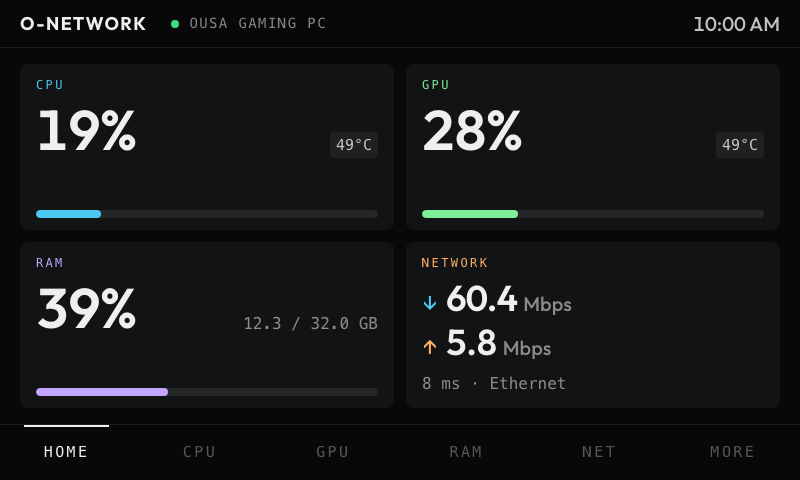
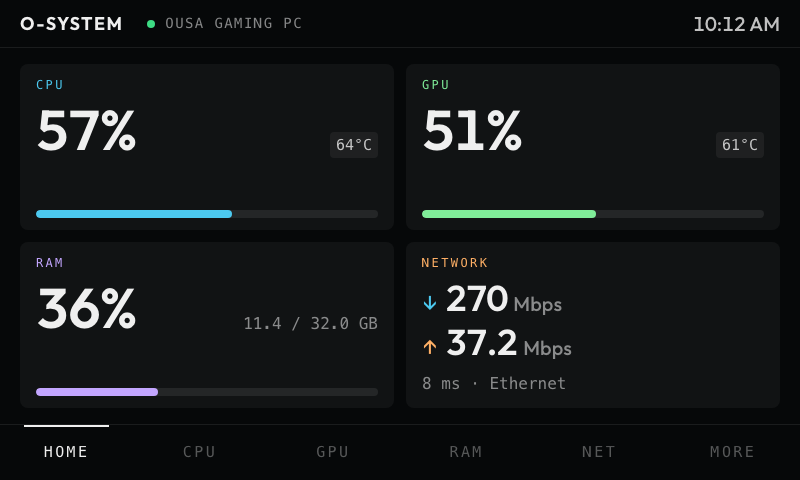
O-Network Monitor becomes O-System Monitor
The app watches CPU, GPU, memory, storage and processes now, not just the
link, so it takes a name that says so. Same manifest id, so an installed
copy upgrades in place and keeps its data.

- manifest name O-System Monitor, and a description that matches the new
  dashboard
- page and settings titles, the settings page fallback heading, and the
  O-SYSTEM wordmark in the top bar
- README (app table, net.proxy note, section heading, dev server table),
  the changelog title and a note in 0.2.0, and a fresh store screenshot
- the folder and package name stay network-monitor: they are internal, and
  renaming them would only move dev paths and catalog file names

Also fixes settings loading: the stored copy arrives a moment after the
page opens, and a change made before then was overwritten by the late
load. Early changes are now held and laid over the stored copy, then saved.

diff --git a/apps/network-monitor/src/store/settings.ts b/apps/network-monitor/src/store/settings.ts
@@ -58,16 +58,32 @@ function parse(raw: string | null | undefined): Settings {
   };
 }
 
+// the stored copy arrives a moment after the page, once the daemon answers; a change made before then is kept here
+// and laid over it, or the late load would quietly undo it
+let loaded = false;
+let early: Partial<Settings> = {};
+
+function save(client: BridgethingClient) {
+  client.store.put({ key: KEY, value: JSON.stringify(settingsStore.get()) }).catch(() => {});
+}
+
 export async function loadSettings(client: BridgethingClient) {
   try {
     const r = await client.store.get({ key: KEY });
-    if (r.ok) settingsStore.set(parse(r.response.value));
+    if (r.ok) settingsStore.set({ ...parse(r.response.value), ...early });
   } catch {
     // no daemon yet: the defaults stand until it answers
   }
+  loaded = true;
+  if (Object.keys(early).length > 0) save(client);
+  early = {};
 }
 
 export function updateSettings(client: BridgethingClient, patch: Partial<Settings>) {
   settingsStore.set(prev => ({ ...prev, ...patch }));
-  client.store.put({ key: KEY, value: JSON.stringify(settingsStore.get()) }).catch(() => {});
+  if (!loaded) {
+    early = { ...early, ...patch };
+    return;
+  }
+  save(client);
 }

diff --git a/apps/network-monitor/src/components/chrome.tsx b/apps/network-monitor/src/components/chrome.tsx
@@ -18,7 +18,7 @@ export const TopBar = memo(function TopBar({
 }) {
   return (
     <div className="flex h-12 shrink-0 items-center gap-4 border-b border-white/8 px-5">
-      <span className="font-display text-[1.125rem] font-bold tracking-[0.08em] text-off-white">O-NETWORK</span>
+      <span className="font-display text-[1.125rem] font-bold tracking-[0.08em] text-off-white">O-SYSTEM</span>
       <button onClick={onDevice} className="flex min-w-0 items-center gap-2.5 rounded-md px-2 py-1 active:bg-white/8">
         {device && <StatusIndicator online={online} label={false} />}
         <span className="truncate font-mono text-[0.875rem] tracking-[0.1em] text-soft uppercase">{device ?? 'no device'}</span>

diff --git a/apps/network-monitor/index.html b/apps/network-monitor/index.html
@@ -4,7 +4,7 @@
     <meta charset="UTF-8" />
     <meta name="viewport" content="width=800, height=480, initial-scale=1.0, user-scalable=no, viewport-fit=cover" />
     <meta name="theme-color" content="#000000" />
-    <title>O-Network Monitor</title>
+    <title>O-System Monitor</title>
   </head>
   <body class="m-0 h-screen w-screen overflow-hidden touch-none select-none antialiased">
     <div id="root" class="h-full w-full"></div>

diff --git a/apps/network-monitor/settings/main.tsx b/apps/network-monitor/settings/main.tsx
@@ -52,7 +52,7 @@ function Settings() {
 
   return (
     <main>
-      <h1>{ctx?.name ?? 'network-monitor'} settings</h1>
+      <h1>{ctx?.name ?? 'O-System Monitor'} settings</h1>
       <p className="hint">{ctx ? `${ctx.webappId} on ${ctx.deviceId}` : 'connecting to the companion host...'}</p>
 
       <form onSubmit={saveConfig}>

diff --git a/apps/network-monitor/settings/settings.html b/apps/network-monitor/settings/settings.html
@@ -3,7 +3,7 @@
   <head>
     <meta charset="UTF-8" />
     <meta name="viewport" content="width=device-width, initial-scale=1.0, viewport-fit=cover" />
-    <title>O-Network Monitor settings</title>
+    <title>O-System Monitor settings</title>
   </head>
   <body>
     <div id="root"></div>

diff --git a/README.md b/README.md
@@ -9,7 +9,7 @@ source once and all of them are available.
 | --- | --- |
 | **O-Music Player** | Now playing, in ten styles, coloured by the album art, on a screen that turns |
 | **O-Clock** | A clock in ten faces, eight timers, a stopwatch and an alarm |
-| **O-Network Monitor** | Link status, latency and measured throughput |
+| **O-System Monitor** | CPU, GPU, memory, network and storage for your machines |
 | **O-Quote Flow** | A quote of the moment, with favourites and your own lines |
 | **O-Desk Exchange** | A fictional stock market: invented tickers, headlines and prices |
 | **O-Gold Tracker** | Live gold spot, Khmer weight conversion and a private purchase ledger |
@@ -35,8 +35,8 @@ to your phone. Then:
 Updates show up in the same place. Music Player can also check for one under **Settings → Software
 update**.
 
-> Music Player and Network Monitor ask for `net.proxy`. Music Player uses it for sharper album art,
-> missing artist names and explicit tags (all optional in its settings); Network Monitor uses it to
+> Music Player and System Monitor ask for `net.proxy`. Music Player uses it for sharper album art,
+> missing artist names and explicit tags (all optional in its settings); System Monitor uses it to
 > time its measurements.
 
 ## O-Music Player
@@ -221,9 +221,9 @@ with previous, play and next sits along the bottom while music plays. Time comes
 
 ![Stopwatch](apps/clock/screenshots/05-stopwatch.jpg)
 
-## O-Network Monitor
+## O-System Monitor
 
-![Network Monitor](apps/network-monitor/screenshots/01-dashboard.png)
+![System Monitor](apps/network-monitor/screenshots/01-dashboard.png)
 
 A small hardware monitoring station: CPU, GPU, memory, network, storage and processes for the
 machines around you, one at a time, on the Car Thing.
@@ -415,7 +415,7 @@ bun run bump MusicPlayerV1 patch -m "note"   # move the version and open a chang
 | O-Clock | http://localhost:5174 |
 | O-Desk Exchange | http://localhost:5175 |
 | O-Gold Tracker | http://localhost:5176 |
-| O-Network Monitor | http://localhost:5177 |
+| O-System Monitor | http://localhost:5177 |
 | O-Quote Flow | http://localhost:5178 |
 | O-Map | http://localhost:5179 |
 | O-Photos | http://localhost:5180 |

diff --git a/apps/network-monitor/CHANGELOG.md b/apps/network-monitor/CHANGELOG.md
@@ -1,6 +1,9 @@
-# O-Network Monitor
+# O-System Monitor
 
 ## 0.2.0
+
+The app is called **O-System Monitor** now, since it watches far more than the network. Same id, so
+an installed copy updates in place.
 
 A new dashboard: a small hardware monitoring station for the machines around you. **Home** shows
 CPU, GPU, RAM and network at a glance, each with its own screen and a live graph, and **More**
